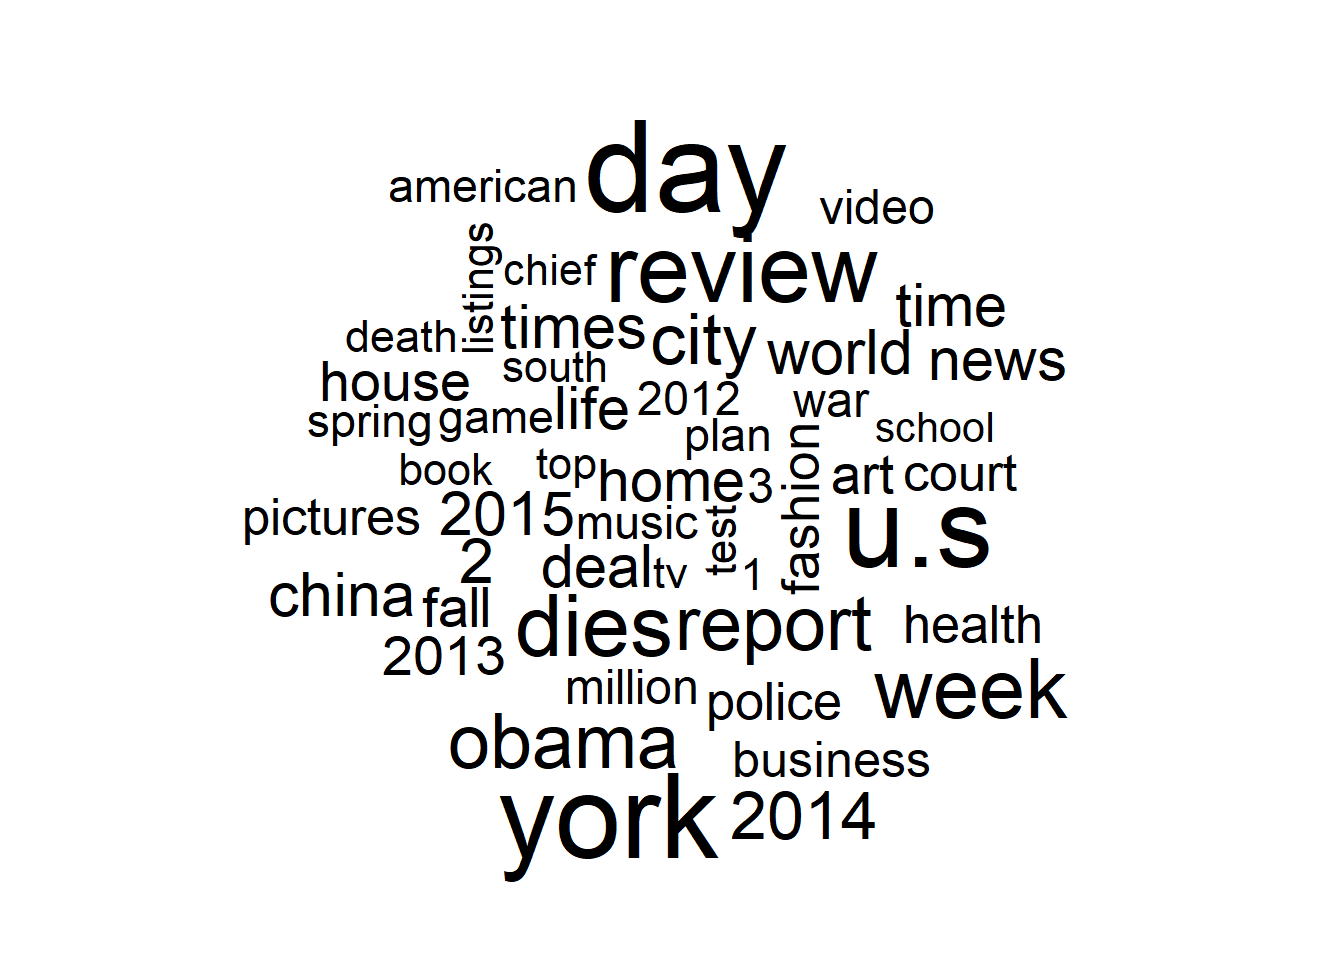
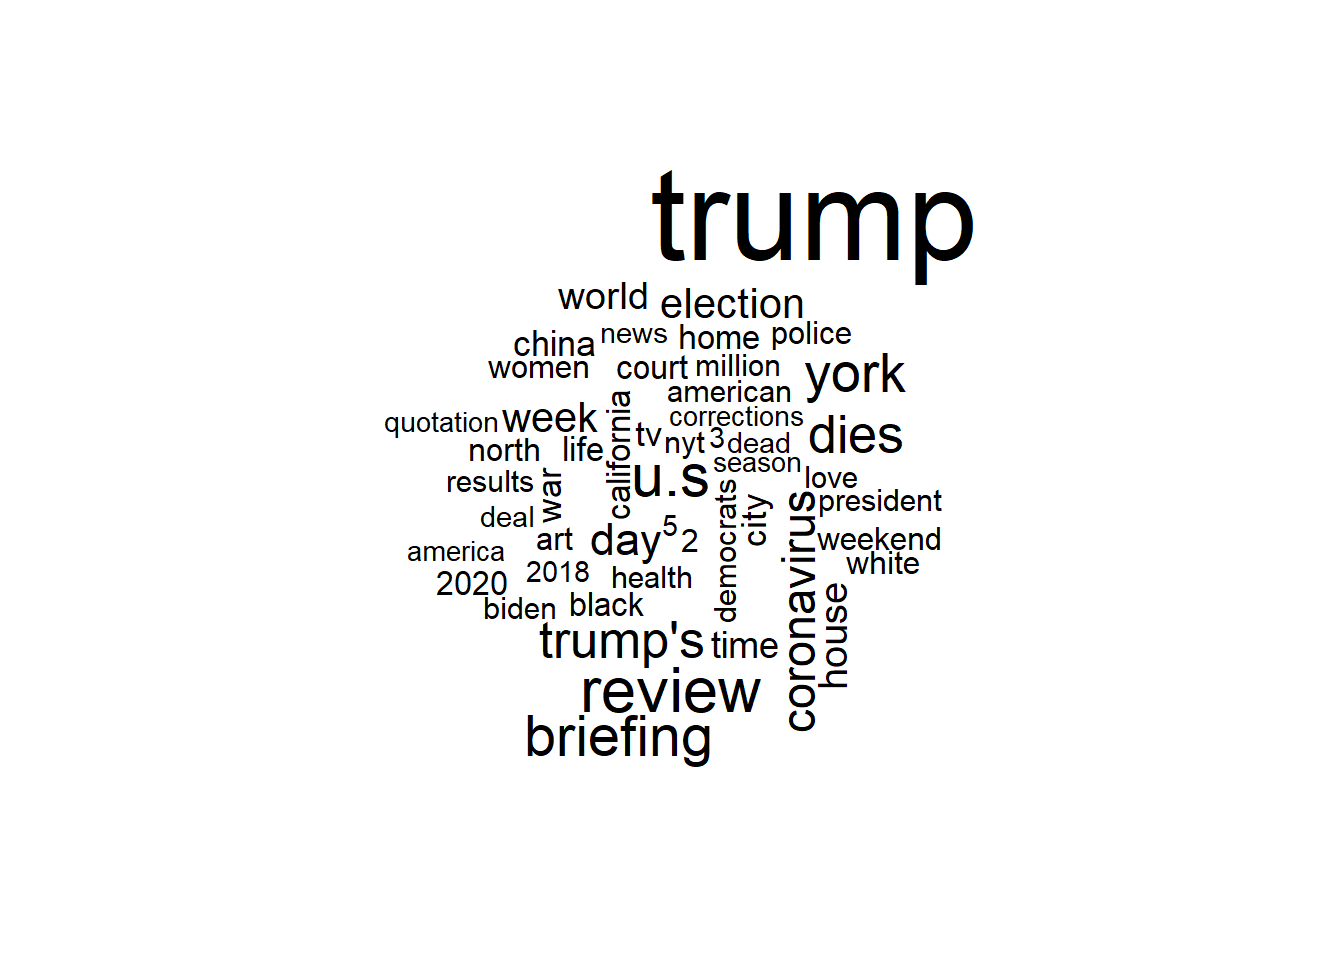
Update links + use processed data

Changed region(s): [[0.1562, 0.125, 0.8125, 0.9375]]

diff --git a/page_2.html b/page_2.html
@@ -336,7 +336,7 @@ div.tocify {
       </ul>
       <ul class="nav navbar-nav navbar-right">
         <li>
-  <a href="https://karimzakir02.github.io/jsc370-final-project/">
+  <a href="https://github.com/karimzakir02/jsc370-final-project">
     <span class="fa fa-github fa-lg"></span>
      
   </a>
@@ -365,11 +365,11 @@ div.tocify {
 <h2 class="tabset">Showcasing plots</h2>
 <div id="word-cloud" class="section level3">
 <h3>2012-2016 Word Cloud</h3>
-<p><img src="page_2_files/figure-html/unnamed-chunk-4-1.png" width="672" /></p>
+<p><img src="page_2_files/figure-html/unnamed-chunk-3-1.png" width="672" /></p>
 </div>
 <div id="word-cloud-1" class="section level3">
 <h3>2016-2020 Word Cloud</h3>
-<p><img src="page_2_files/figure-html/unnamed-chunk-5-1.png" width="672" /> {-}</p>
+<p><img src="page_2_files/figure-html/unnamed-chunk-4-1.png" width="672" /></p>
 </div>
 </div>
 <div id="scraping-the-data" class="section level2">

diff --git a/index.html b/index.html
@@ -337,7 +337,7 @@ div.tocify {
       </ul>
       <ul class="nav navbar-nav navbar-right">
         <li>
-  <a href="https://karimzakir02.github.io/jsc370-final-project/">
+  <a href="https://github.com/karimzakir02/jsc370-final-project">
     <span class="fa fa-github fa-lg"></span>
      
   </a>
